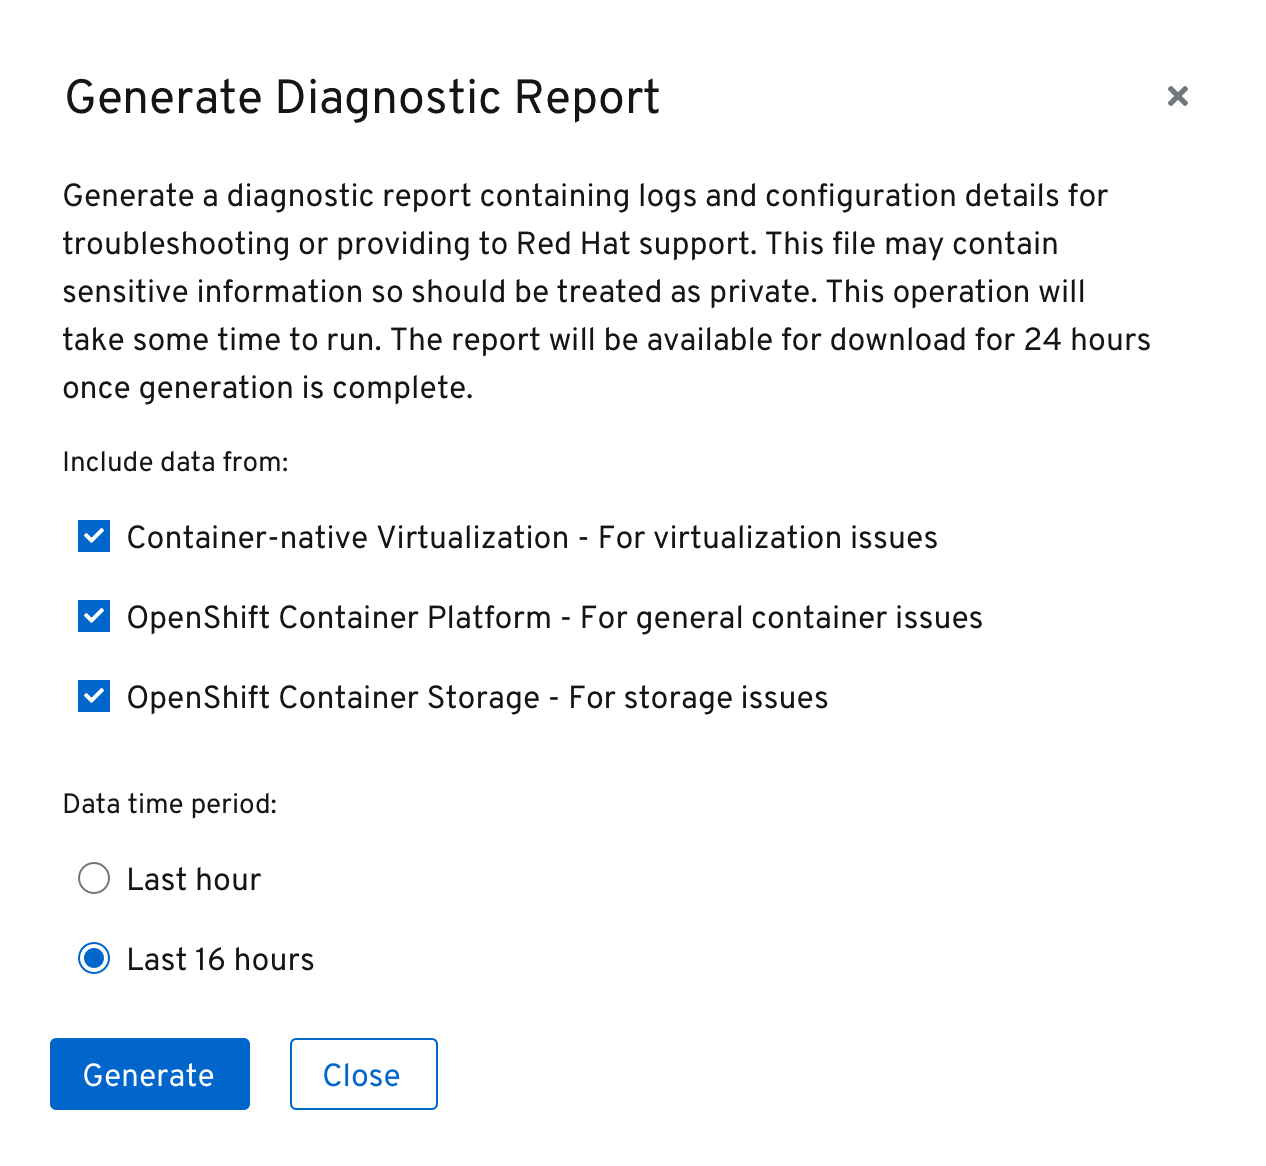
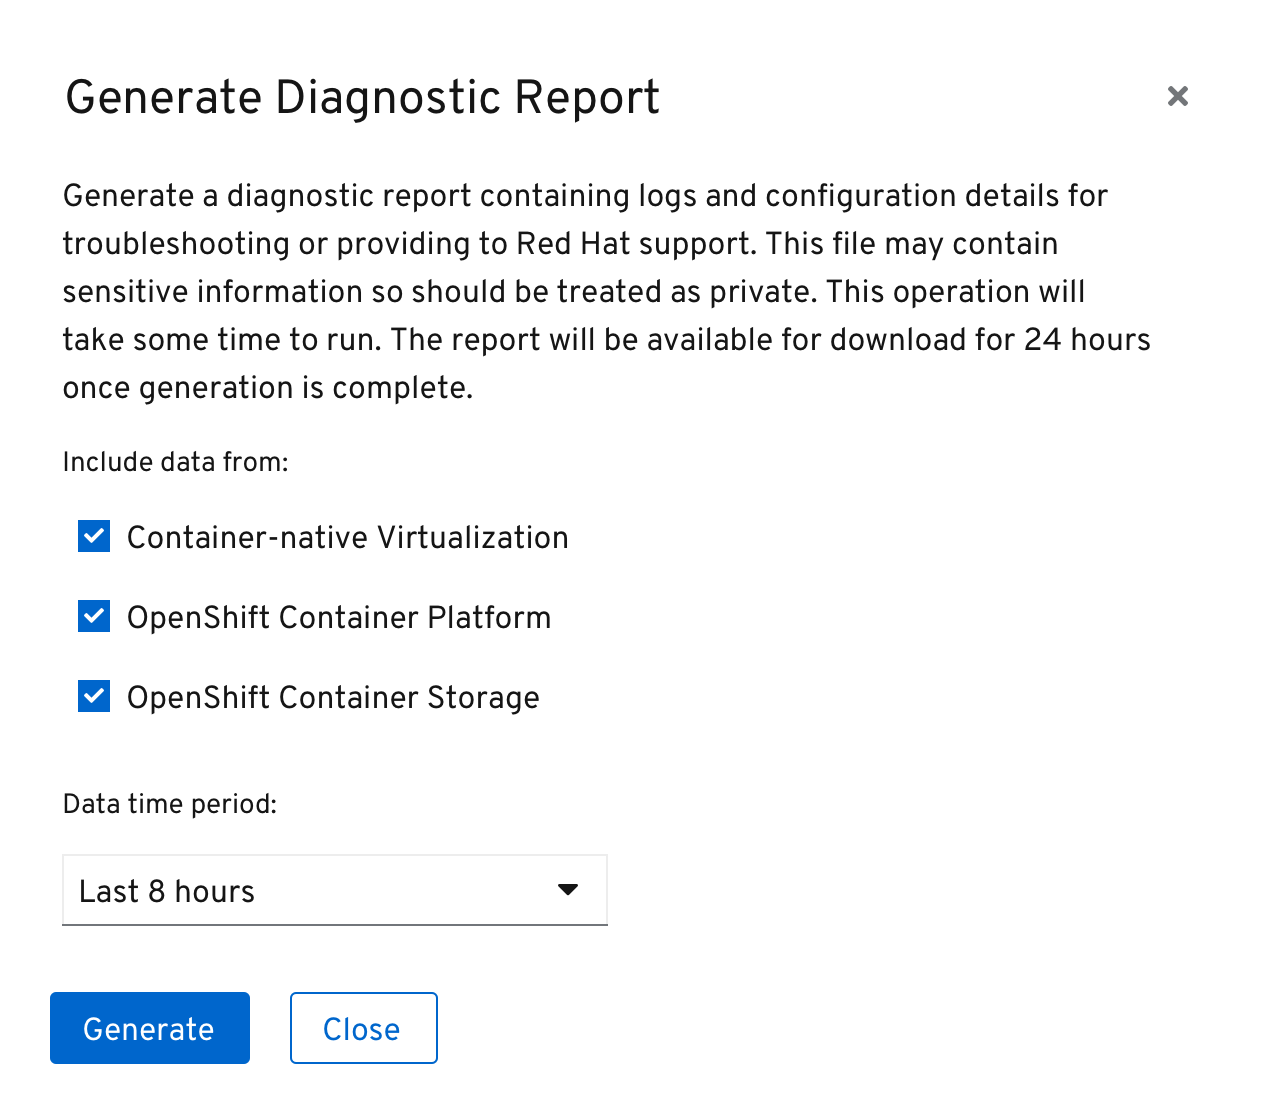
Further updates to design

diff --git a/web-console/future-openshift/diagnostics/diagnostics.md b/web-console/future-openshift/diagnostics/diagnostics.md
@@ -17,13 +17,14 @@ There are several ways the user can access the `Generate (diagnostics) report` a
 ### Via a cluster dashboard status card message action
 ![Cluster dashboard status card message click](img/5-1-clusterdash-CNVerror.png)
 - The cluster dashboard will soon support warning messages to notify the user that CNV or OCS are degraded. From these messages the user will be able to immediately `Generate report` using the action link within the message.
-- This access point is unique in that when the dialog is launched, it will already be scoped to the related product for which the message it was launched from is related to. In this shown example case, only `Container-native Virtualization - For virtualization issues` would be checked by default.
+- This access point is unique in that when the dialog is launched, it will already be scoped to the related product for which the message it was launched from is related to. In this shown example case, only `Container-native Virtualization` would be checked by default.
 
 ## 'Generate Diagnostic Report' dialog
 ![Generate Diagnostic Report dialog select](img/2-1-reportdialog.png)
-- The user can select what products and what time period of information should be included in the report and `Generate` it.
+![Generate Diagnostic Report dialog select](img/2-2-reportdialog-menu.png)
+- The user can select what products and what time period of information should be included in the report and `Generate` it. The default state when launched from masthead help or status card kebab would be all 3 products selected and 8 hour time period.
 
-![Generate Diagnostic Report dialog in progress](img/2-2-reportdialog-generating.png)
+![Generate Diagnostic Report dialog in progress](img/2-3-reportdialog-generating.png)
 - Once generation has begun, the user can `Close` the dialog to return to the context they launched it from, or `View on Dashboard` to immediately be taken to the cluster dashboard.
 
 ## Report generation
@@ -37,13 +38,16 @@ There are several ways the user can access the `Generate (diagnostics) report` a
 - Upon successful generation of the report, an informational status message appears with a `Download report` link that begins the download process in the user's browser.
 
 ![Cluster dashboard generated status message kebab](img/3-3-clusterdash-complete.png)
-- The user may `Delete` the report and message via the message kebab menu.
+- The user may `Delete` the report and message via the message kebab menu. It will otherwise be automatically deleted and the message cleared after 24 hours from generation.
 
 ### Generation failure
 ![Cluster dashboard failed status message](img/3-4-clusterdash-failed.png)
-- User may click `Retry` link to restart generation or `Delete` the message via the kebab.
+- If the report generation fails, a message appears with a `Retry` link to restart generation.
 
-## Out of scope
+![Cluster dashboard failed status message](img/3-5-clusterdash-failed.png)
+- User may `Clear` the failure message via the kebab or this message will automatically be removed after 12 hours.
+
+## Out of scope for 4.3
 - Narrowing report generation by Project or Operator
 - Only include non-healthy components in report
 - Generate and immediately attach to (existing or new) support case

diff --git a/README.md b/README.md
@@ -1,4 +1,5 @@
 ## OpenShift 4.3 Designs
+Access design documentation for features slotted in the 4.3 release of OpenShift. Click links below for specific section details.
 
 - [Diagnostics](http://openshift.github.io/openshift-origin-design/web-console/future-openshift/diagnostics/diagnostics)
 
